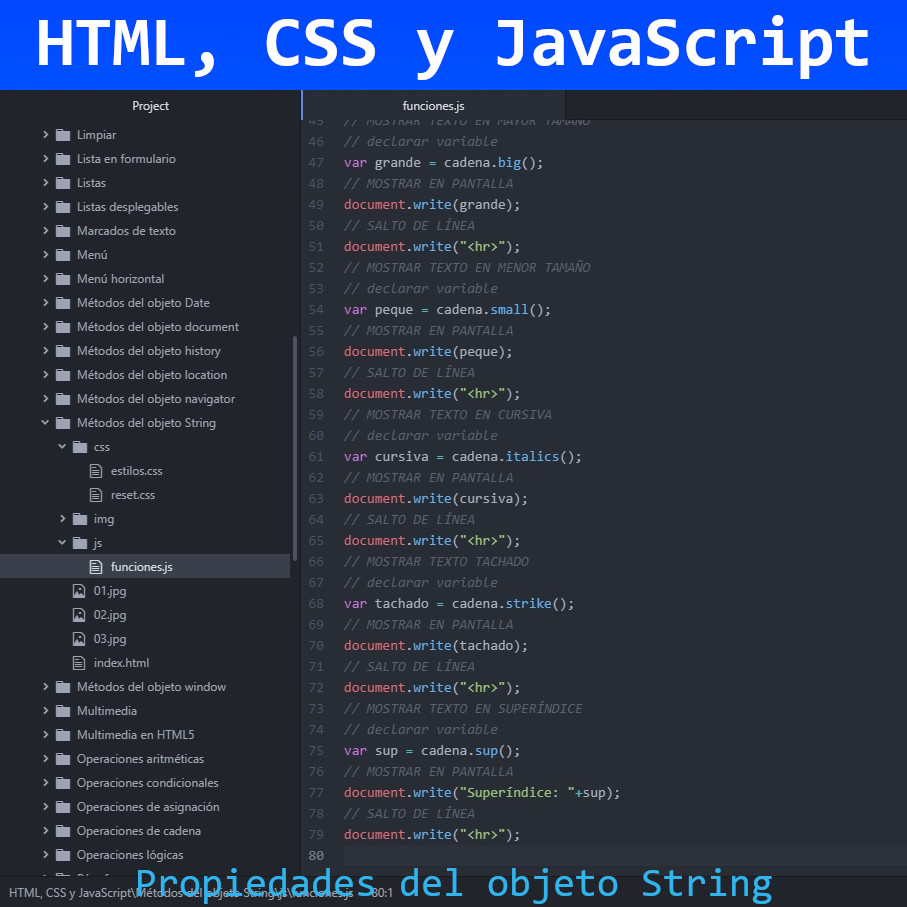
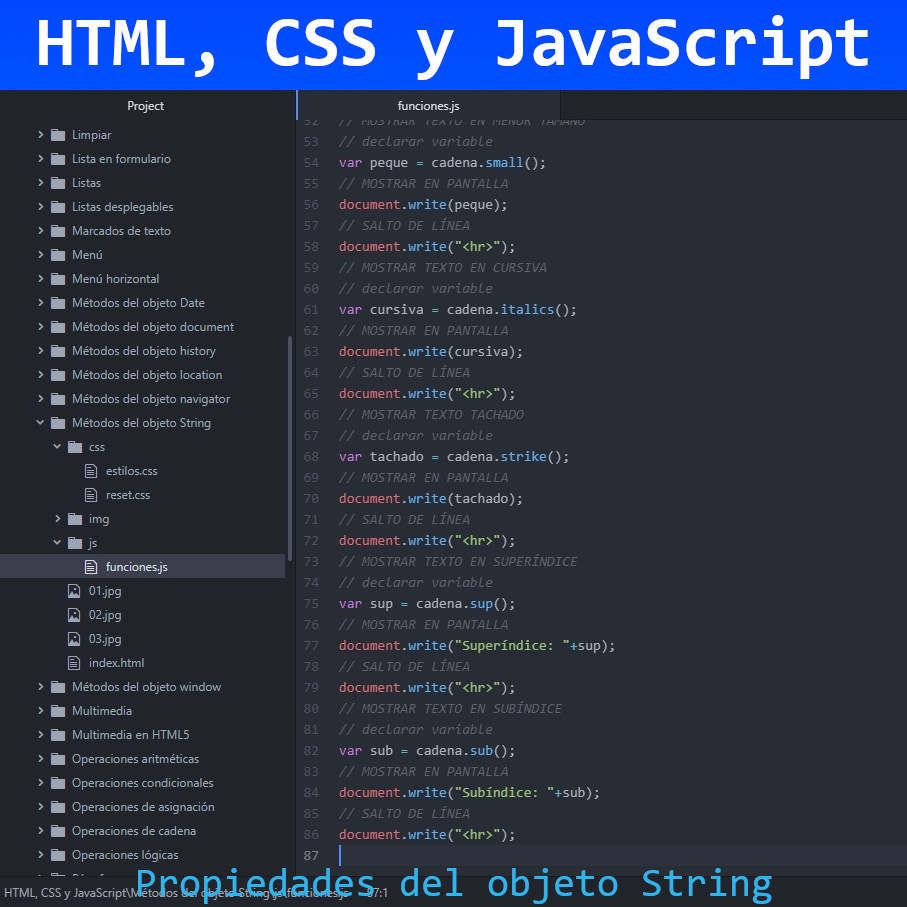
Métodos del objeto String
Métodos del objeto String en JavaScript

diff --git a/HTML, CSS y JavaScript/Métodos del objeto String/js/funciones.js b/HTML, CSS y JavaScript/Métodos del objeto String/js/funciones.js
@@ -77,3 +77,10 @@ var sup = cadena.sup();
 document.write("Superíndice: "+sup);
 // SALTO DE LÍNEA
 document.write("<hr>");
+// MOSTRAR TEXTO EN SUBÍNDICE
+// declarar variable
+var sub = cadena.sub();
+// MOSTRAR EN PANTALLA
+document.write("Subíndice: "+sub);
+// SALTO DE LÍNEA
+document.write("<hr>");
